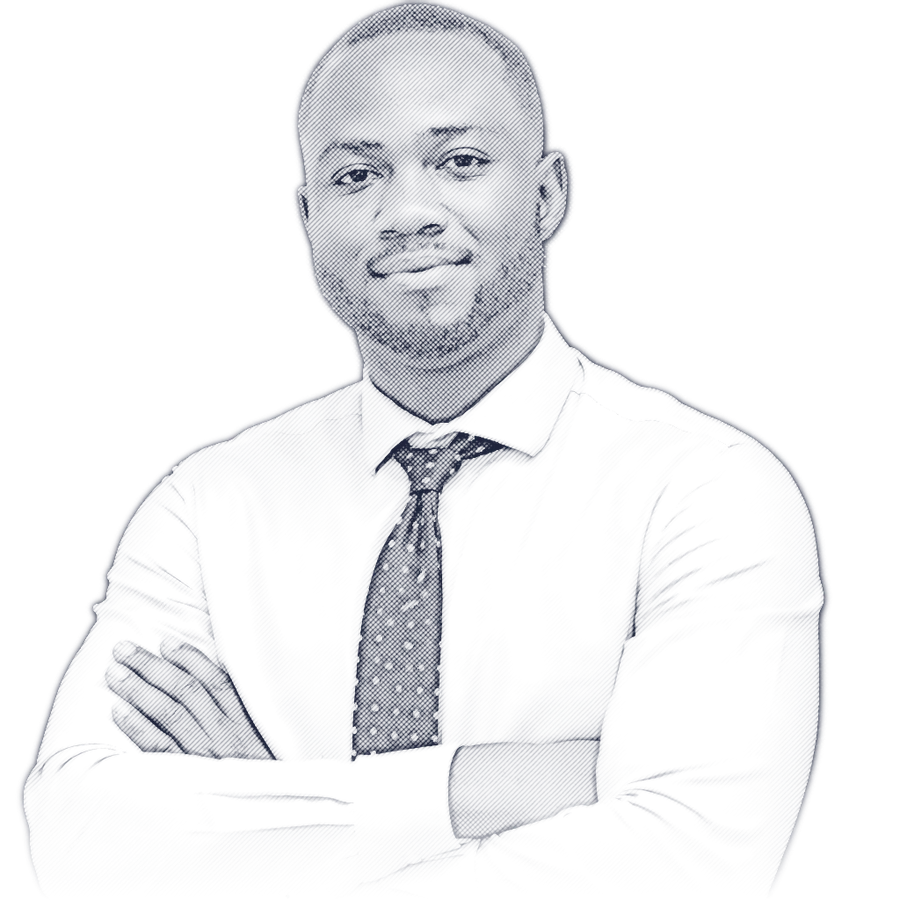
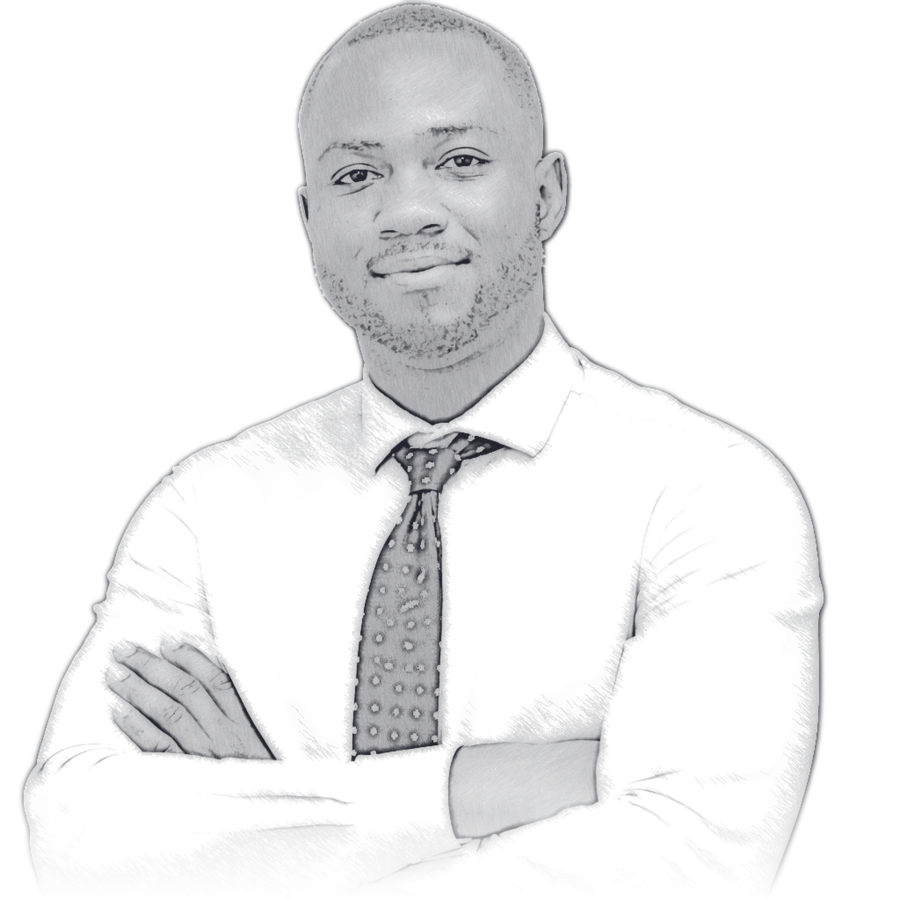
Intertitres en bleu sombre, portrait au crayon à hachures
Claude-Session: https://claude.ai/code/session_01J4afNxinvJUp86Wk8Q1s1Z

diff --git a/src/styles.css b/src/styles.css
@@ -402,7 +402,7 @@ a { color: inherit; }
 .mf-legend { margin-top: 10px; }
 
 /* Intertitres des analyses en bleu, bouton d'actualisation, portrait au crayon */
-.prose h2 { color: var(--indigo); font-weight: 600; }
+.prose h2 { color: #1B2B66; font-weight: 600; }
 .refresh-btn { display: inline-flex; align-items: center; justify-content: center; width: 34px; height: 34px; border-radius: 999px; color: var(--ink-2); flex: 0 0 auto; transition: background .15s, color .15s; }
 .refresh-btn:hover { background: var(--indigo-soft); color: var(--indigo); }
 .refresh-btn.is-busy svg { animation: spin .8s linear infinite; }

diff --git a/src/App.jsx b/src/App.jsx
@@ -712,7 +712,7 @@ export default function App() {
           <div className="wrap about">
             <div>
               <div className="section-head" style={{ display: "block" }}><h2>{t.aboutTitle}</h2></div>
-              <div className="portrait"><img src="/portrait-crayon.webp" alt="Ismaël Ouédraogo" loading="lazy" /></div>
+              <div className="portrait"><img src="/portrait-crayon.webp?v=2" alt="Ismaël Ouédraogo" loading="lazy" /></div>
             </div>
             <div>
               <div className="about-text">{t.about.map((p, i) => <p key={i}>{p}</p>)}</div>
